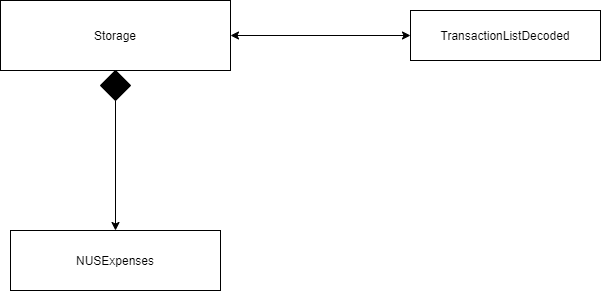
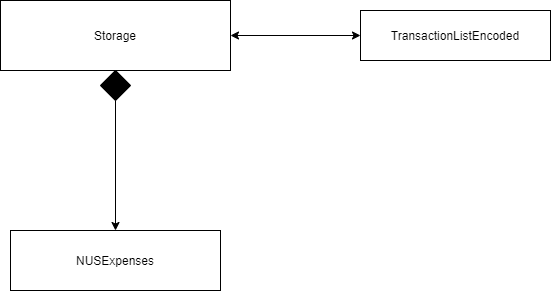
Adjusted PPP for DG contributions Added Use Case Diagram Added Object Diagram

diff --git a/docs/DeveloperGuide.md b/docs/DeveloperGuide.md
@@ -1,12 +1,47 @@
 # Developer Guide
+* [Setting Up and Getting Started](#Setting-Up-and-Getting-Started)
+* [Design](#Design)
+  * [Architecture](#Architecture)
+  * [UI component](#Component)
+  * [Logic component](#Component)
+  * [Model component](#Component)
+  * [Storage component](#Storage-Component)
+  * [Common classes](#Component)
+* [Implementation](#Implementation)
+* [Appendix: Requirements](#Appendix:-Requirements)
+  * [Product scope](#Product-scope)
+  * [User stories](#User-Stories)
+  * [Non-Functional Requirements](#Non-Functional-Requirements)
+  * [Glossary](#Glossary)
 
-## Design & implementation
 
-{Describe the design and implementation of the product. Use UML diagrams and short code snippets where applicable.}
+## Setting Up and Getting Started
+:heavy_exclamation_mark: **Caution** Follow the steps in the following guide precisely. Things will not work out if you deviate in some steps.
 
+First, **fork** this repo, and **clone** the fork into your computer.
+If you plan to use Intellij IDEA (highly recommended):
+
+1. **Configure the JDK:**
+  * Ensure you have the correct JDK version installed in your computer.
+  * Open IntelliJ (if you are not in the welcome screen, click File → Close Project to close the existing project dialog first).
+  * Set up the correct JDK version for Gradle.
+    * Click Configure → Project Defaults → Project Structure
+    * Click New… and set it to the directory of the JDK.
+2. **Import the project as a Gradle project:**
+  * IntelliJ IDEA by default has the Gradle plugin installed. If you have disabled it, go to File → Settings → Plugins to re-enable them.
+  * If your project involves GUI programming, similarly ensure the JavaFX plugin has not been disabled.
+  * Click Import Project (or Open or Import in newer version of Intellij).
+  * Locate the build.gradle file (not the root folder as you would do in a normal importing) and select it. Click OK.
+  * If asked, choose to Open as Project (not Open as File).
+  * Click OK to accept the default settings but do ensure that the selected version of Gradle JVM matches the JDK being used for the project.
+  * Wait for the importing process to finish (could take a few minutes).
+  * :heavy_exclamation_mark: **Note**: Importing a Gradle project is slightly different from importing a normal Java project.
+3. **Verify the setup:**
+  * Run the NusExpenses.java and try a few commands.
+  
 ## Design
 
-##### Architecture - Sample (To Be Changed)
+##### Architecture
 ![Sample - Architecture](images/Architecture.png)
 
 ##### Component
@@ -16,9 +51,12 @@
 ######Storage(Load)
 ![StorageComponent](images/storageDecodedDiagram.png)
 
-######Storage(save)
+
+###### Storage(save)
 ![StorageComponent](images/storageEncodedDiagram.png)
 
+######Budget Storage(Load)
+![BudgetStorageComponent](images/BudgetStorageDecodedDiagram.png)
 API:  ```Storage.java```
 
 The Storage Component,
@@ -28,7 +66,68 @@ to the decoding class.
 * Saving function will Encode the transaction detail and pass it back to storage
 to save to the file. 
 
-## Product scope
+
+###### Search Command Sequence Diagram
+![SearchCommand Sequence Diagram](images/SearchSequenceDiagram.png)
+
+###### Search Command Object Diagram
+![SearchCommand Object Diagram](images/SearchCommandObjectDiagram.png)
+
+###### Total Command Sequence Diagram
+![Sequence](images/TotalCommandSequence.png)
+
+## Implementation
+This section describes some noteworthy details on how certain features were implemented.
+
+##### Delete Feature
+
+The purpose of delete function is to facilitate user to remove a transaction in the TransactionList if they made a mistake.
+It extends Command and TransactionList to get the correct index to remove.
+
+Given below is an example usage scenario and how the report mechanism behaves at each step.
+
+Step 1. The user launches the application for the first time. The TransactionList is empty.
+
+![Sample - Stage1](images/ReportFeature_Stage1.png)
+
+Step 2. User executes ```add Lunch at ...``` to add a new transaction. The ```add``` command will save the record into TransactionList. User will continue to add another 5 more records to the TransactionList. There are a total of 6 Transactions saved.
+
+![Sample - Stage2](images/DeleteFeature_Stage2.png)
+
+Step 3. User executes ```delete 3``` command to delete the 3rd transaction in the Expenses Tracking Application. TransactionList will be left with 5 records after User delete successfully.
+
+![Sample - Stage3](images/DeleteFeature_Stage3.png)
+
+
+##### Report Feature
+
+The purpose of report feature is to facilitate user to be able to generate a summary report with all the expense details user entered. 
+It extends Command and TransactionList, get all the transactions and generate report with a time period.
+
+Given below is an example usage scenario and how the report mechanism behaves at each step.
+
+Step 1. The user launches the application for the first time. The TransactionList is empty.
+
+![Sample - Stage1](images/ReportFeature_Stage1.png)
+
+Step 2. User executes ```add Lunch at ...``` to add a new transaction. The ```add``` command will save the record into TransactionList.
+
+![Sample - Stage2](images/ReportFeature_Stage2.png)
+
+Step 3. After user enters multiple records in TransactionList, they will executes ```report /sd...``` command to generate the report with or without a time period.
+
+![Sample - Stage3](images/ReportFeature_Stage3.png)
+
+In step 3, the application used an external library named **'Apache-POI'**. This library helps to generate the summary report into an Excel file with the following format:
+
+![Sample - CSV](images/CSV.JPG)
+
+The following activity diagram summarizes what happens when a user executes report command:
+
+![Sample - Report Activity Diagram](images/Report%20Activity%20Diagram.png)
+
+## Appendix: Requirements
+### Product scope
 ##### Target user profile
 
 * Has a need to manage his/her expenses
@@ -40,9 +139,12 @@ to save to the file.
 ##### Value proposition: 
 To manage all expenses faster than a typical excel budget spreadsheet.
 
+### User Stories
 
+[User Stories on Trello Board](https://trello.com/b/2290RLsD/nusexpenseshelper "User Stories on Trello~")
 
-## User Stories
+###### Use Case Diagram
+![NUS Expenses Tracker - UC](images/NUSExpenseTrackerUCDiagram.png)
 
 |Priority|Version| As a ... | I want to ... | So that I can ...|
 |--------|--------|----------|---------------|------------------|
@@ -64,7 +166,7 @@ To manage all expenses faster than a typical excel budget spreadsheet.
 |*|v2.0|Student|make sure I input daily expenses|I can keep track of it|
 |*|v2.0|Student|view tips on saving money|have motivation to achieve my goal|
 
-## Non-Functional Requirements
+### Non Functional Requirements
 
 1. Should work on any mainstream OS as long it has Java ```11``` or above installed.
 2. User will be able to interact with the systems with regular english text. For example: (```
@@ -72,7 +174,7 @@ add chicken rice $4.00 2020-11-01 /C FOOD. ```).
 3. Will be able to handle up to 1000 expenses without noticeable slowness in performance for typical usage.
 4. User will be able to interact with their expenses.txt if they wish to make amendment. 
 
-## Glossary
+### Glossary
 
 * *MainStream OS* - Windows, Linux, Unix, OS-X
 

diff --git a/docs/team/adi-kd0021.md b/docs/team/adi-kd0021.md
@@ -42,10 +42,18 @@ NET is an app for managing expenses, optimized for use via a Command Line Interf
 * Documentation:
   * User Guide:
     * Added documentation for the ```view``` ([#52](https://github.com/AY2021S1-TIC4001-4/tp/pull/52))
+    
   * Developer Guide:
-    * TBD
+    * Added Component diagram
+    * Added plantUML Architecture.puml ([#67](https://github.com/AY2021S1-TIC4001-4/tp/pull/67))
+    * Fixed UG and DG grammar, markdowns... ([#68](https://github.com/AY2021S1-TIC4001-4/tp/pull/68))
+    * Added SearchCommand Sequence diagram ([#79](https://github.com/AY2021S1-TIC4001-4/tp/pull/79))
+    * Added SearchCommand Object diagram 
+    * Added NUS Expense Tracker Use Case diagram ([#84](https://github.com/AY2021S1-TIC4001-4/tp/pull/84))
+    
 * Community:
-  * Our application was created using a combination of pair-programming and adhoc coding sessions. During each session lasting between an hour to four or more, all group members sat in a meeting session while coding/ implementing their assigned components. If a concern was raised or support was needed, they shared their screen via the meeting session and everyone participated or assisted to clear the obstacle. Using this method we've successfully cleared v1.0 to v3.0 of our project milestones. 
+  * Our application was developed using a combination of pair-programming and adhoc coding sessions. During each session lasting between an hour to four or more, all group members sat in a meeting session while coding/ implementing their assigned components. If a concern was raised or support was needed, they shared their screen via the meeting session and everyone participated or assisted to clear the obstacle. Using this method we've successfully cleared v1.0 to v3.0 of our project milestones. 
 
 * Tools
   * All Regular Expression created with aid of [RegExr](https://regexr.com/) by gskinner.
+  * Diagrams drawn using [draw.io / diagrams.net](https://app.diagrams.net/ "Diagram with anyone, anywhere")

diff --git a/docs/team/e0261618.md b/docs/team/e0261618.md
@@ -31,7 +31,8 @@ NET is an app for managing expenses, optimized for use via a Command Line Interf
     * Added initial draft documentation for all features.([#25](https://github.com/AY2021S1-TIC4001-4/tp/pull/25))
 	* Did cosmetic tweaks to existing documentation, alignment, update documentation for features on V2.0 release. ([#49](https://github.com/AY2021S1-TIC4001-4/tp/pull/49))
   * Developer Guide:
-    * Added implementation details of the ```delete``` and ```generate report``` feature.
+    * Added Setting Up and Getting Started ([#82](https://github.com/AY2021S1-TIC4001-4/tp/pull/82))
+    * Added implementation details of the ```delete``` and ```generate report``` feature. ([#82](https://github.com/AY2021S1-TIC4001-4/tp/pull/82))
 	
 * Community:
   * Our application was created using a combination of pair-programming and adhoc coding sessions. During each session lasting between an hour to four or more, all group members sat in a meeting session while coding/ implementing their assigned components. If a concern was raised or support was needed, they shared their screen via the meeting session and everyone participated or assisted to clear the obstacle. Using this method we've successfully cleared v1.0 to v3.0 of our project milestones. 

diff --git a/docs/team/chilaiping.md b/docs/team/chilaiping.md
@@ -37,6 +37,10 @@ NET is an app for managing expenses, optimized for use via a Command Line Interf
     
   * Developer Guide:
     * TBD
+
+* Community:
+  * Our application was created using a combination of pair-programming and adhoc coding sessions. During each session lasting between an hour to four or more, all group members sat in a meeting session while coding/ implementing their assigned components. If a concern was raised or support was needed, they shared their screen via the meeting session and everyone participated or assisted to clear the obstacle. Using this method we've successfully cleared v1.0 to v3.0 of our project milestones. 
+
 	
 
 
